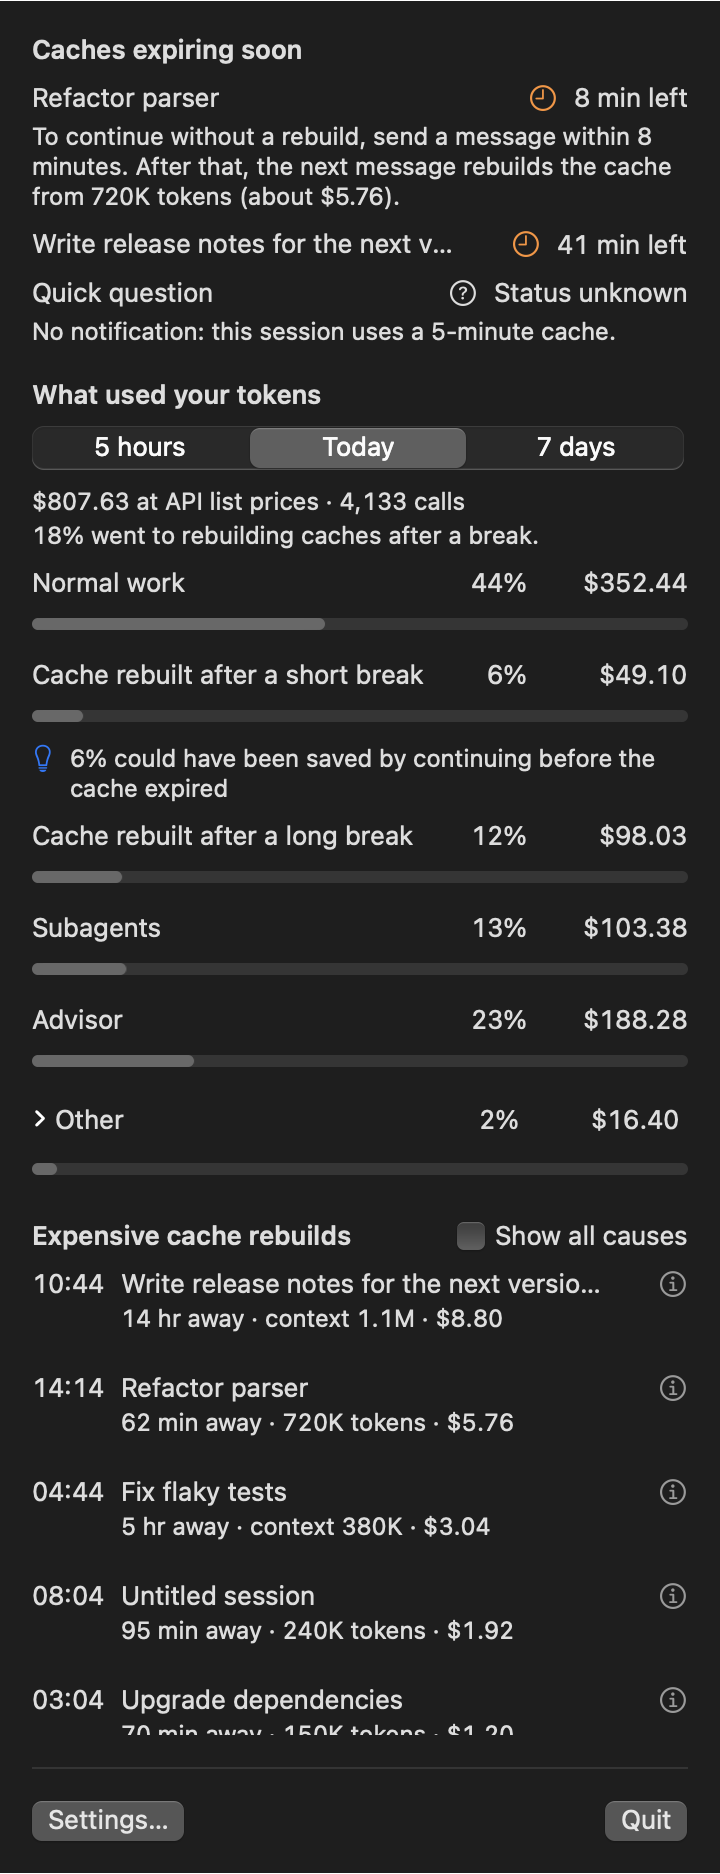
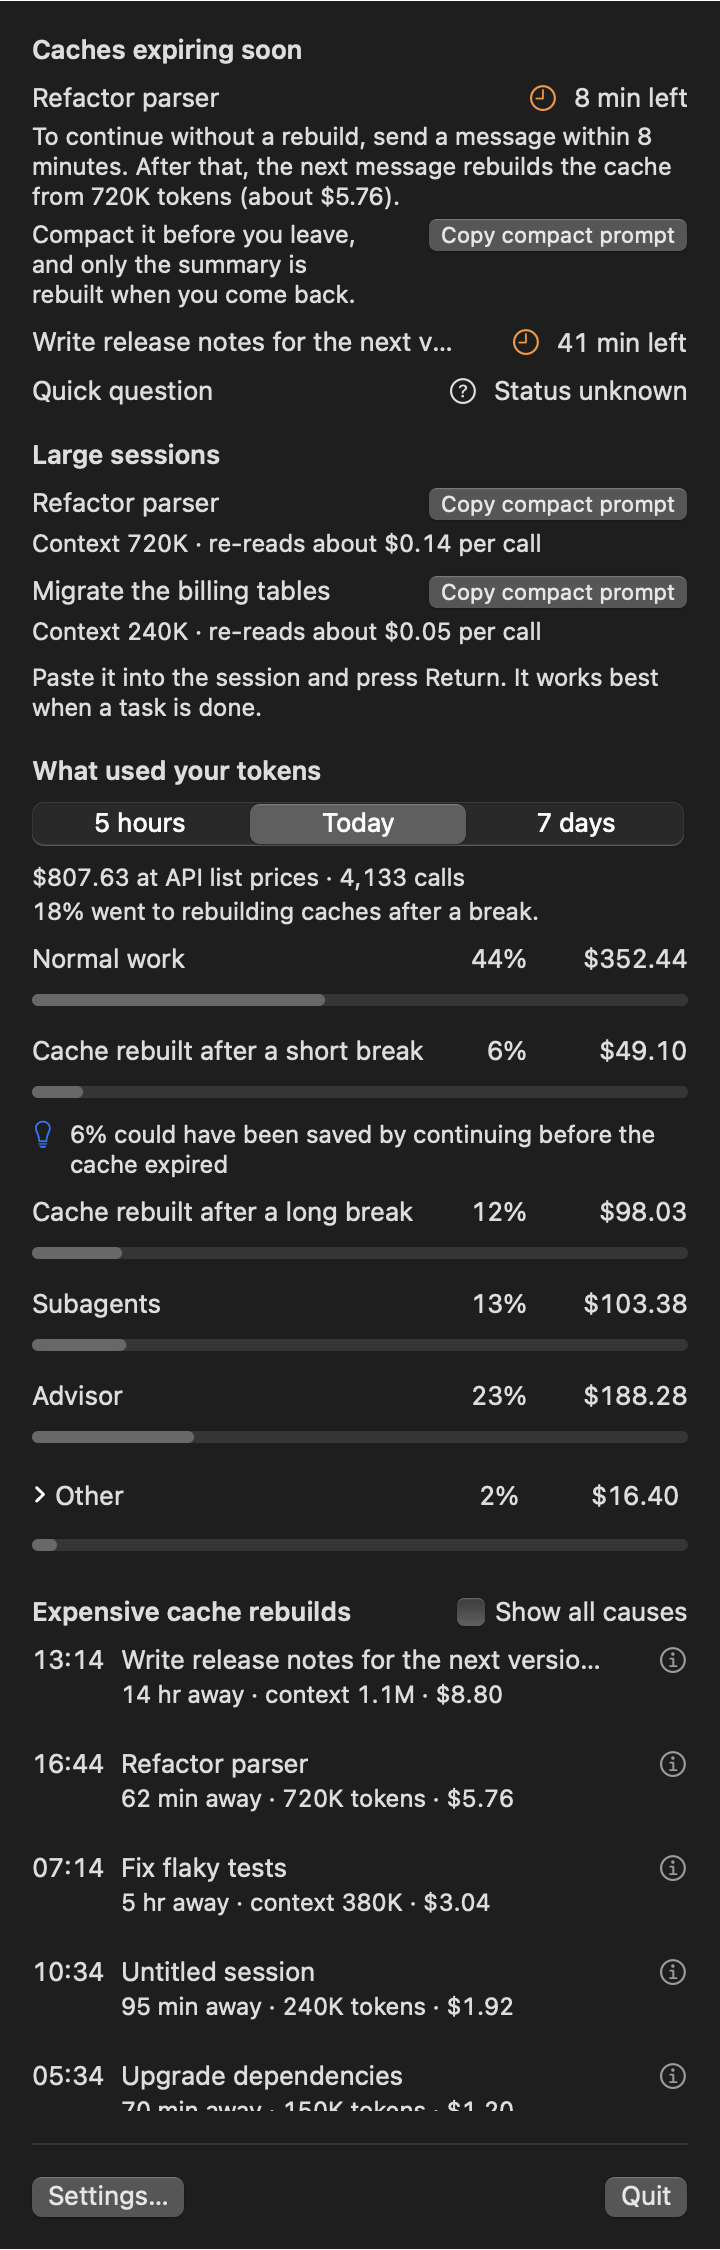
docs: describe large sessions in the README and show them in the screenshot

diff --git a/README.md b/README.md
@@ -9,7 +9,7 @@ Most usage tools show a gauge. This one reads your local Claude Code transcripts
 <p align="center">
   <picture>
     <source media="(prefers-color-scheme: dark)" srcset="docs/images/popover-dark.png">
-    <img src="docs/images/popover-light.png" width="360" alt="The popover: sessions whose cache expires soon, today's cost split by cause, and the most expensive cache rebuilds. Every value in this image is made up.">
+    <img src="docs/images/popover-light.png" width="360" alt="The popover: sessions whose cache expires soon, large sessions with a button that copies a compact prompt, today's cost split by cause, and the most expensive cache rebuilds. Every value in this image is made up.">
   </picture>
 </p>
 
@@ -20,6 +20,7 @@ Most usage tools show a gauge. This one reads your local Claude Code transcripts
 - **Break usage down by cause.** For the last 5 hours, today and the last 7 days, it splits API-price-equivalent cost into normal work, cache rebuilds after a short break, cache rebuilds after a long break, subagents, advisor consults and other causes.
 - **Warn before a cache expires.** When an idle session's prompt cache is about to expire, it shows how long is left and how many tokens a resume would have to write again. If you turn it on, it also sends a notification ahead of time. The notification shows the session's title, so it can appear wherever macOS shows notifications.
 - **List the costly rebuilds.** It lists each cache rebuild with the session, the break before it and the rule that classified it.
+- **Point out large sessions.** It lists running sessions whose context has passed 200K tokens, with what each call re-reads at list price, and copies a `/compact` prompt that keeps the goal, decisions, files, state and remaining work. You paste it into the session yourself; the app never runs it.
 
 ## What it will never do
 
